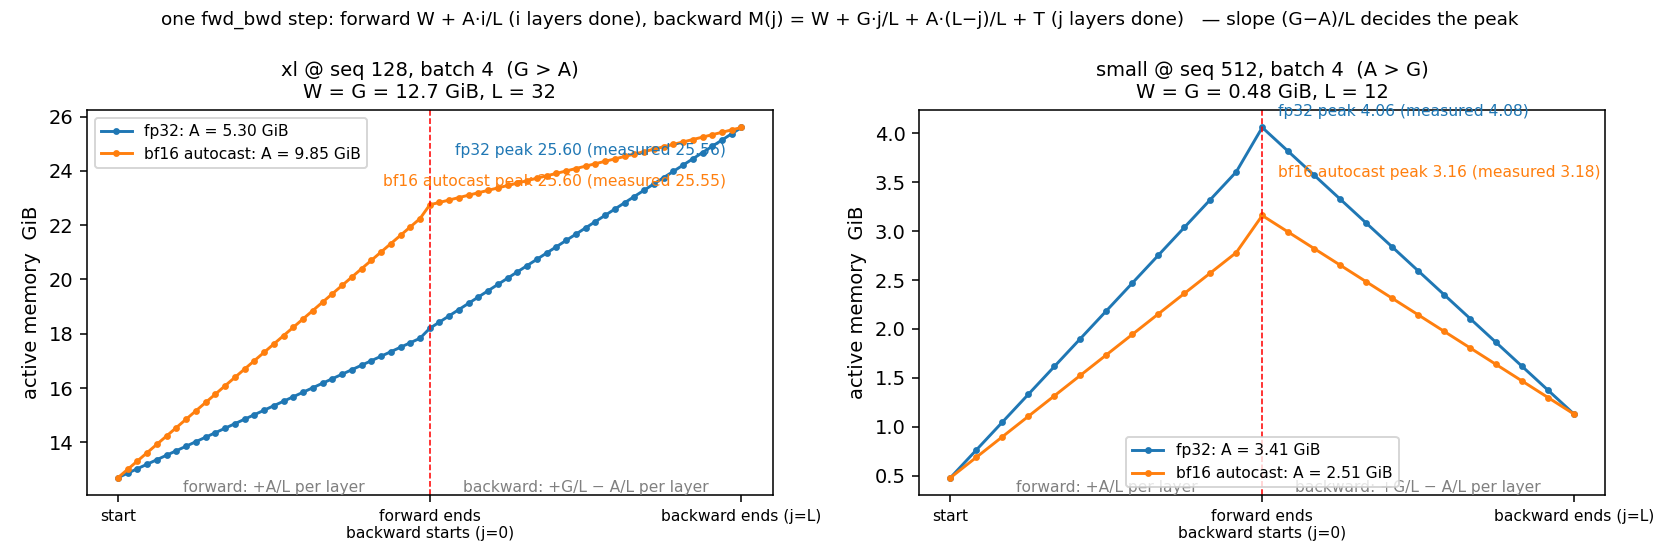
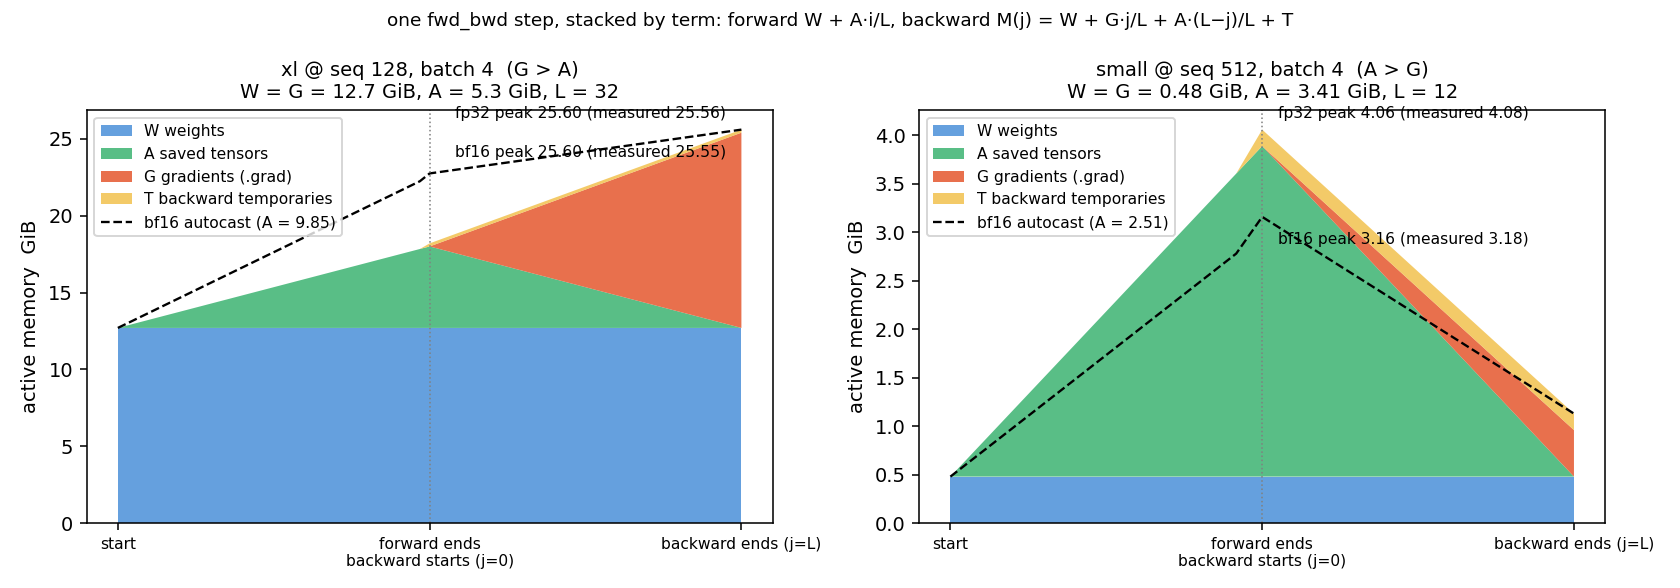
docs(blog): W/G/A/T 配色（🟦🟥🟩🟨），图 2.2-1 改为按四项堆叠着色

diff --git a/hw2/notes/assets/s2/plot_peak_moment.py b/hw2/notes/assets/s2/plot_peak_moment.py
@@ -1,29 +1,36 @@
-"""§2.3(d)(e)：一步 fwd_bwd 的显存曲线。前向第 j 层结束：W + A·j/L（末尾加 T）；反向走完 j 层：W + G·j/L + A·(L−j)/L + T。
-xl@128 与 small@512，fp32 vs bf16 autocast。数字来自 memory_xl_peak.md / autocast_saved_tensors.txt。"""
+"""§2.2：一步 fwd_bwd 的显存曲线，按 W / G / A / T 四项堆叠着色（fp32），bf16 autocast 画成线。
+前向第 i 层结束：W + A·i/L（末尾加 T）；反向走完 j 层：W + G·j/L + A·(L−j)/L + T。
+数字来自 memory_xl_peak.md / autocast_saved_tensors.txt。颜色与正文 🟦W 🟥G 🟩A 🟨T 一致。"""
 import matplotlib.pyplot as plt
 
+C = {"W": "#4A90D9", "G": "#E4572E", "A": "#3CB371", "T": "#F2C14E"}
 cases = [  # name, L, W, G, A_fp32, A_bf16(含副本), T, 实测峰值 fp32/bf16
     ("xl @ seq 128, batch 4  (G > A)",    32, 12.7, 12.7, 5.3,  3.5 + 6.35, 0.2,  25.56, 25.55),
     ("small @ seq 512, batch 4  (A > G)", 12, 0.48, 0.48, 3.41, 2.28 + 0.23, 0.17, 4.08, 3.18),
 ]
-fig, axes = plt.subplots(1, 2, figsize=(12, 4))
-for ax, (name, L, W, G, A32, A16, T, p32, p16) in zip(axes, cases):
-    xs = list(range(2 * L + 1))                       # 0..L 前向逐层，L..2L 反向逐层
-    for j, (A, lab, c, meas) in enumerate([(A32, "fp32", "C0", p32), (A16, "bf16 autocast", "C1", p16)]):
-        fwd = [W + A * i / L for i in range(L)] + [W + A + T]      # 前向末尾那一点已在算第一层反向，带上 T
-        bwd = [W + G * k / L + A * (L - k) / L + T for k in range(1, L + 1)]
-        M = fwd + bwd
-        ax.plot(xs, M, marker="o", ms=2.5, c=c, label=f"{lab}: A = {A:.2f} GiB")
-        kp = max(xs, key=lambda x: M[x])
-        ax.annotate(f"{lab} peak {M[kp]:.2f} (measured {meas})", (kp, M[kp]), textcoords="offset points",
-                    xytext=(-8, -14 - 16 * j) if kp > L else (8, 6 + 14 * j), ha="right" if kp > L else "left", fontsize=8, c=c)
-    ax.axvline(L, c="red", lw=.8, ls="--")
-    y0 = ax.get_ylim()[0]
-    ax.text(L / 2, y0, "forward: +A/L per layer", fontsize=8, c="gray", ha="center", va="bottom")
-    ax.text(1.5 * L, y0, "backward: +G/L − A/L per layer", fontsize=8, c="gray", ha="center", va="bottom")
-    ax.set_title(f"{name}\nW = G = {W} GiB, L = {L}", fontsize=10)
+fig, axes = plt.subplots(1, 2, figsize=(12, 4.2))
+for ax, (name, L, W, G, A, A16, T, p32, p16) in zip(axes, cases):
+    xs = list(range(2 * L + 1))
+    # 四项随 x 的值：前向 i=0..L，反向 j=1..L
+    w = [W] * (2 * L + 1)
+    a = [A * i / L for i in range(L + 1)] + [A * (L - j) / L for j in range(1, L + 1)]
+    g = [0] * (L + 1) + [G * j / L for j in range(1, L + 1)]
+    t = [0] * L + [T] * (L + 1)
+    ax.stackplot(xs, w, a, g, t, colors=[C["W"], C["A"], C["G"], C["T"]], labels=["W weights", "A saved tensors", "G gradients (.grad)", "T backward temporaries"], alpha=.85)
+    tot = [w[i] + a[i] + g[i] + t[i] for i in xs]
+    kp = max(xs, key=lambda x: tot[x])
+    ax.annotate(f"fp32 peak {tot[kp]:.2f} (measured {p32})", (kp, tot[kp]), textcoords="offset points",
+                xytext=(-8, 6) if kp > L else (8, 6), ha="right" if kp > L else "left", fontsize=8)
+    # bf16 autocast：A 换成 A16（含副本），其余不变
+    m16 = [W + A16 * i / L for i in range(L)] + [W + A16 + T] + [W + G * j / L + A16 * (L - j) / L + T for j in range(1, L + 1)]
+    ax.plot(xs, m16, c="k", ls="--", lw=1.2, label=f"bf16 autocast (A = {A16:.2f})")
+    kp16 = max(xs, key=lambda x: m16[x])
+    ax.annotate(f"bf16 peak {m16[kp16]:.2f} (measured {p16})", (kp16, m16[kp16]), textcoords="offset points",
+                xytext=(-8, -14) if kp16 > L else (8, -14), ha="right" if kp16 > L else "left", fontsize=8)
+    ax.axvline(L, c="gray", lw=.8, ls=":")
+    ax.set_title(f"{name}\nW = G = {W} GiB, A = {A} GiB, L = {L}", fontsize=10)
     ax.set_xticks([0, L, 2 * L]); ax.set_xticklabels(["start", "forward ends\nbackward starts (j=0)", "backward ends (j=L)"], fontsize=8)
-    ax.set_ylabel("active memory  GiB"); ax.legend(fontsize=8, loc="upper left" if G > A32 else "lower center")
-fig.suptitle("one fwd_bwd step: forward W + A·i/L (i layers done), backward M(j) = W + G·j/L + A·(L−j)/L + T (j layers done)   — slope (G−A)/L decides the peak", fontsize=9.5)
+    ax.set_ylabel("active memory  GiB"); ax.legend(fontsize=8, loc="upper left")
+fig.suptitle("one fwd_bwd step, stacked by term: forward W + A·i/L, backward M(j) = W + G·j/L + A·(L−j)/L + T", fontsize=9.5)
 fig.tight_layout()
 fig.savefig("notes/assets/s2/peak_moment.png", dpi=140)

diff --git a/hw2/notes/blog.md b/hw2/notes/blog.md
@@ -46,8 +46,8 @@ Stanford CS336《Language Modeling from Scratch》作业 2「Systems」的实验
 | **matmul / GEMM** | 矩阵乘；GEMM 是 cuBLAS/cutlass 里矩阵乘 kernel 的名字 |
 | **CUDA core / Tensor core** | 一个 SM 里的两种算术单元。CUDA core（SIMT）是标量 FMA，什么都能算，5090 fp32 峰值 1.05e14 FLOPS；Tensor core 只做小矩阵块乘加，只收 fp16 / bf16 / tf32 / fp8 输入，吞吐高一个量级（5090 bf16 2.1e14，H100 上比 CUDA core 高 15×）。纯 fp32 矩阵乘走不了 Tensor core；**tf32** 是把 fp32 尾数截到 10 位后送进 Tensor core 的后门，`allow_tf32=False` 就是关掉它。nsys 里 kernel 名带 `simt` 的走 CUDA core |
 | **FLOPs / FLOPS** | FLOPs = 浮点运算次数（计数，如 8.6e9）；FLOPS = 每秒浮点运算次数（速率，如 1.05e14）。全文用 10 的幂写，不用 G/T 前缀 |
-| **W / G / A / T** | 显存四项（§2.2）：W = 全部权重的大小；G = 全部参数梯度 `.grad` 的大小，= W；A = 前向结束时为反向存的全部 saved tensors；T = 正在算的这一层反向的临时量，算完即释放 |
-| **L / j / M(j)** | L = 层数；j = 反向已走完的层数（0 → L）；M(j) = 此刻活着的显存 = W + G·j/L + A·(L−j)/L + T |
+| **🟦 W / 🟥 G / 🟩 A / 🟨 T** | 显存四项（§2.2，颜色与图 2.2-1 一致）：🟦 W = 全部权重的大小；🟥 G = 全部参数梯度 `.grad` 的大小，= W；🟩 A = 前向结束时为反向存的全部 saved tensors；🟨 T = 正在算的这一层反向的临时量，算完即释放 |
+| **L / j / M(j)** | L = 层数；j = 反向已走完的层数（0 → L）；M(j) = 此刻活着的显存 = 🟦W + 🟥G·j/L + 🟩A·(L−j)/L + 🟨T |
 | **k** | checkpoint 段数，每段 L/k 层（§3.2） |
 | **算术强度 I**（arithmetic intensity） | FLOPs / 读写显存的 bytes。低于硬件的 FLOPS / 带宽（5090 fp32 ≈ 60）的 op 受限于带宽，时间 = bytes / 带宽 |
 
@@ -280,11 +280,11 @@ attention 项在 seq=512 下只占 2–4%，`6N` 近似成立。
 
 <p align="center">$M(j) = W + G \cdot j/L + A \cdot (L-j)/L + T$</p>
 
-T 是常数偏移，M(j) 对 j 是直线、斜率 (G − A)/L，峰值必在两端之一：**A > G** 时反向下坡，峰值在前向末尾 = W + A；**G > A** 时反向上坡，峰值在反向末尾 = W + G = 2W。G 恒等于权重大小，A ∝ token 数 × 层数，所以正常训练（batch × seq 喂够）都是 A > G；只有 token 少、模型大时翻过去——xl 只喂 512 个 token，A = 5.3 < G = 12.7。
+🟦 W 常驻，🟩 A 前向逐层堆上、反向逐层放掉，🟥 G 反向逐层堆上，🟨 T 是常数偏移。M(j) 对 j 是直线、斜率 (G − A)/L，峰值必在两端之一：**🟩A > 🟥G** 时反向下坡，峰值在前向末尾 = W + A；**🟥G > 🟩A** 时反向上坡，峰值在反向末尾 = W + G = 2W。G 恒等于权重大小，A ∝ token 数 × 层数，所以正常训练（batch × seq 喂够）都是 A > G；只有 token 少、模型大时翻过去——xl 只喂 512 个 token，A = 5.3 < G = 12.7。
 
 ![图 2.2-1](assets/s2/peak_moment.png)
 
-**图 2.2-1** 一步 fwd_bwd 的显存曲线 M(j)：xl@128 反向上坡、small@512 反向下坡，预测峰值与实测对上
+**图 2.2-1** 一步 fwd_bwd 的显存曲线，按 🟦W / 🟩A / 🟥G / 🟨T 堆叠（fp32），虚线为 bf16 autocast：xl@128 反向上坡、small@512 反向下坡，预测峰值与实测对上
 
 三条读法：(1) 带图前向 − W 就是 A，四个规格里 A 都是 W 的 2.5–7 倍，所以带图前向一开就是峰值，fwd_bwd 只多一点临时量；(2) full 比 fwd_bwd 多的恰好是 2W——AdamW 的 m、v 常驻（`.grad` 每步 `set_to_none` 后重建，不与 A 同时在峰值），xl 的 2W = 25.4 光这一项就把 5090 填满，和 §1.4 一致；(3) xl 连带图前向都 OOM，所以下面 xl 的实验只能降到 seq 128。
 
